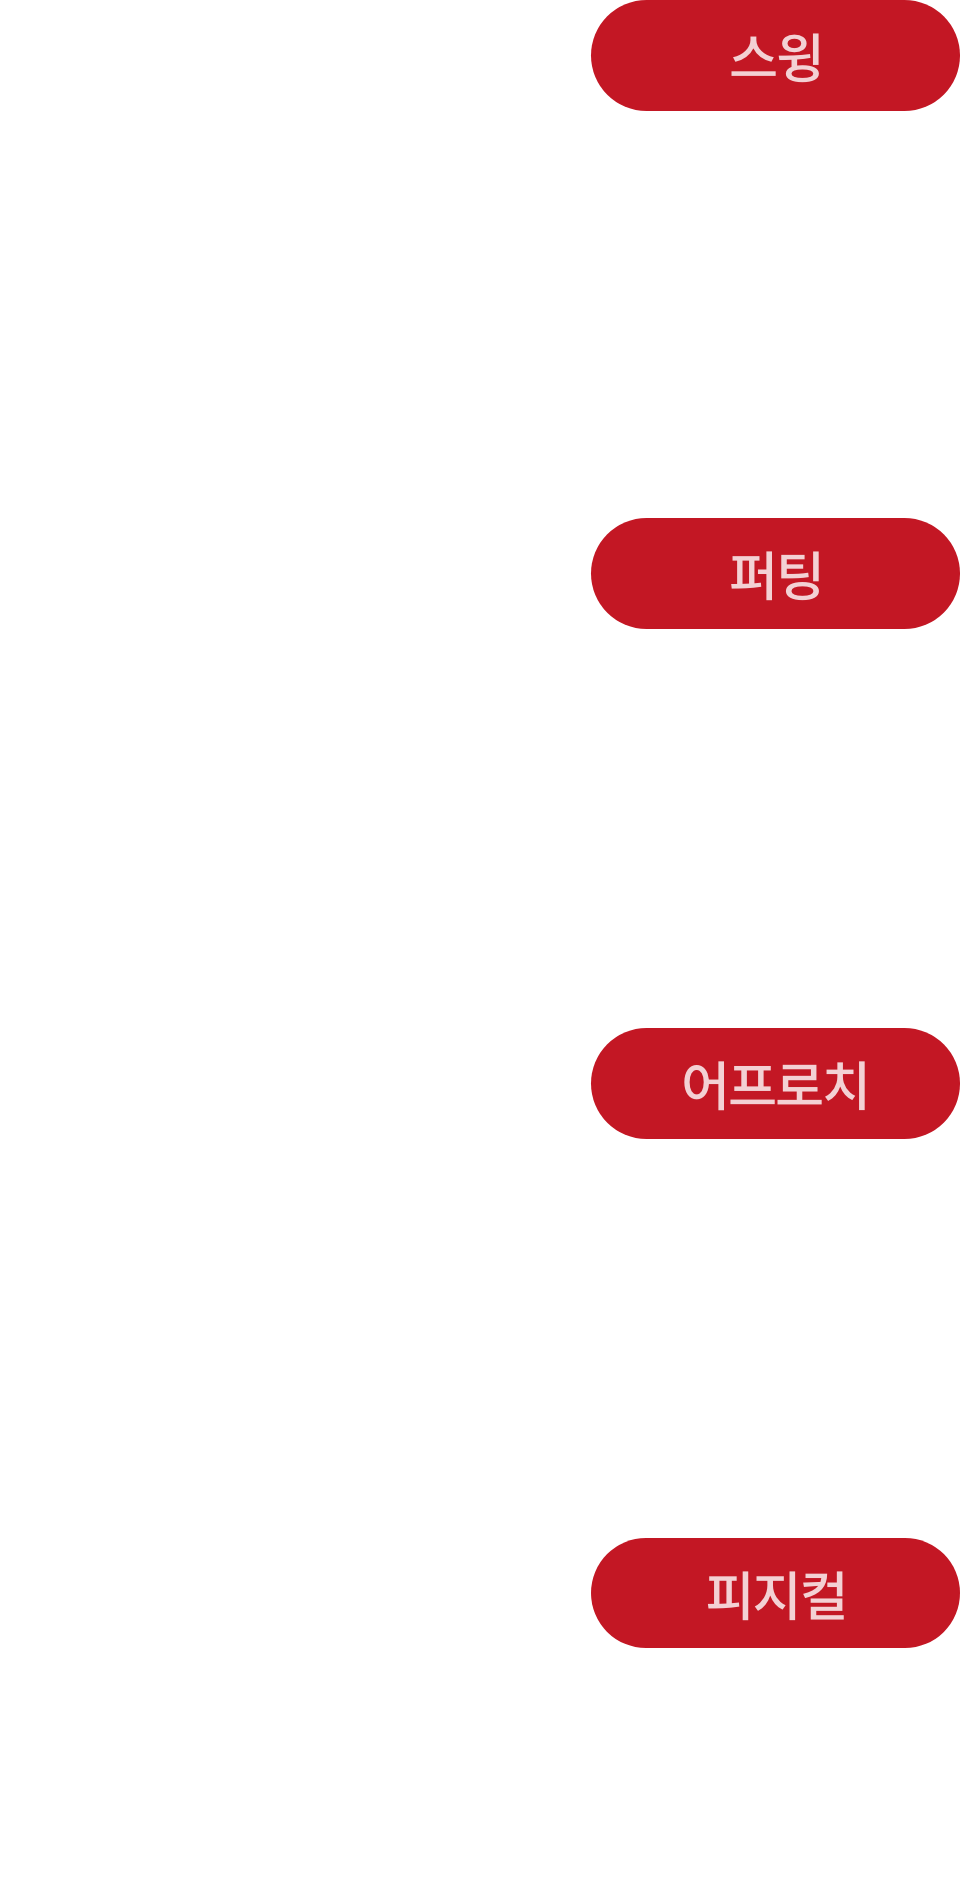
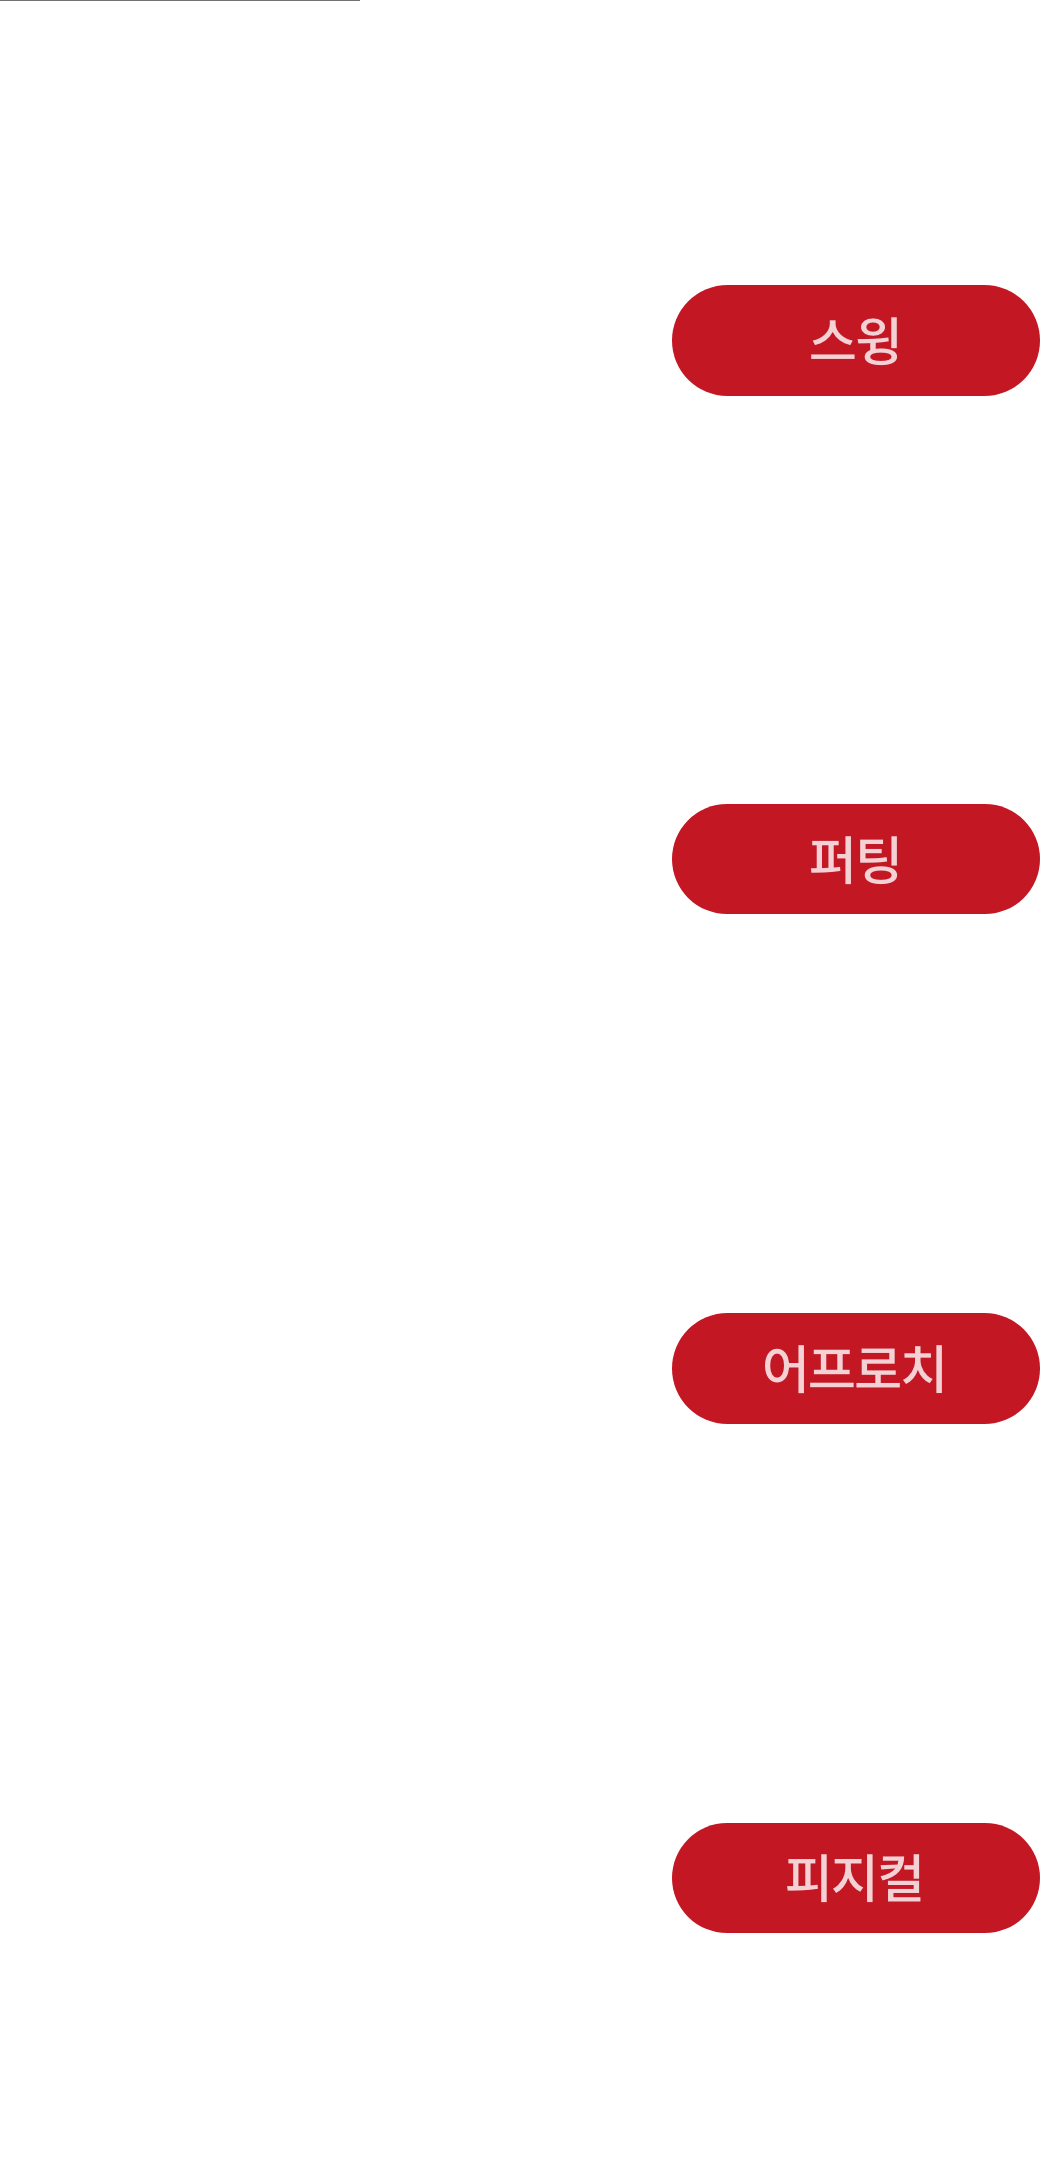
completed info_program
completed info_program

diff --git a/golf/css/style.css b/golf/css/style.css
@@ -82,6 +82,7 @@ a.go_right:hover .arrow_ico::after {content: ''; position: absolute; right: -5px
   .font40 {font-size: 40px;}
   .font36 {font-size: 36px;}
   .font32 {font-size: 32px;}
+  .font26 {font-size: 26px;}
   .font21 {font-size: 21px;}
   
   .sub_top {height: 350px; margin-bottom: 130px;}
@@ -139,6 +140,19 @@ a.go_right:hover .arrow_ico::after {content: ''; position: absolute; right: -5px
   #info_program .professional .txt>div {float: right;}
   #info_program .professional .process {padding: 250px 0;}
   #info_program .professional .process .line {top: 370px;}
+  #info_program .lesson {}
+  #info_program .lesson .part {}
+  #info_program .lesson .part h5 {width: 75%; margin: 0 auto 20px; padding-bottom: 20px; text-align: center; font-weight: 400; border-bottom: 1px solid #fff;}
+  #info_program .lesson .part h5::before {content: ''; display: block; width: 100px; height: 100px; margin: 50px auto 10px; background-image: url(../images/info_program9.png);}
+  #info_program .lesson .part h5::after {content: ''; display: block; width: 1px; height: 30px; margin: 20px auto -20px; background-color: #fff;}
+  #info_program .lesson .part div>ul {display: table; table-layout: fixed; width: 100%;}
+  #info_program .lesson .part div>ul>li {display: table-cell; width: 25%; text-align: center;}
+  #info_program .lesson .part div>ul>li::before {content: ''; display: block; width: 1px; height: 30px; margin: -20px auto 30px; background-color: #fff;}
+  #info_program .lesson .part div>ul>li>h6 {width: 80%; margin: 0 auto 20px; padding: 3px 0; font-weight: 400; background-color: #C31725; border-radius: 30px;}
+  #info_program .lesson .part div>ul>li>ul {display: inline-block; text-align: left;}
+  #info_program .lesson .part div>ul>li>ul>li {}
+
+  
   #info_program .schedule h4 {margin-bottom: -4px; padding: 5px 20px 8px;}
   #info_program .schedule .popup .close {top: 20px; height: 30px;}
   #info_program .schedule .popup .close span {width: 30px;}

diff --git a/golf/sub/info_program.html b/golf/sub/info_program.html
@@ -65,6 +65,45 @@
     <article class="lesson container">
       <h4 class="font32 ready">레슨/훈련 파트 구분</h4>
       <p class="ready">스윙/퍼팅/어프로치/피지컬 총 4개의 파트로 구분하여 <br class="pc_only">각 파트별 전문 코치가 레슨 및 훈련을 진행하고 있습니다.</p>
+      <div class="part pc_only ready">
+        <h5 class="font26">선수</h5>
+        <div class="">
+          <ul>
+            <li>
+              <h6 class="font26">스윙</h6>
+              <ul>
+                <li>1. 측정/분석</li>
+                <li>2. 스킬훈련</li>
+                <li>3. 테크닉 훈련</li>
+              </ul>
+            </li>
+            <li>
+              <h6 class="font26">퍼팅</h6>
+              <ul>
+                <li>1. 측정/분석</li>
+                <li>2. 스킬훈련</li>
+                <li>3. 테크닉 훈련</li>
+              </ul>
+            </li>
+            <li>
+              <h6 class="font26">어프로치</h6>
+              <ul>
+                <li>1. 측정/분석</li>
+                <li>2. 스킬훈련</li>
+                <li>3. 테크닉 훈련</li>
+              </ul>
+            </li>
+            <li>
+              <h6 class="font26">피지컬</h6>
+              <ul>
+                <li>1. 컨디셔닝</li>
+                <li>2. 웨이트</li>
+                <li>3. 필라테스</li>
+              </ul>
+            </li>
+          </ul>
+        </div>
+      </div>
       <div class="no_pc ready"><img src="../images/info_program3_m.png" alt=""></div>
     </article>
     
